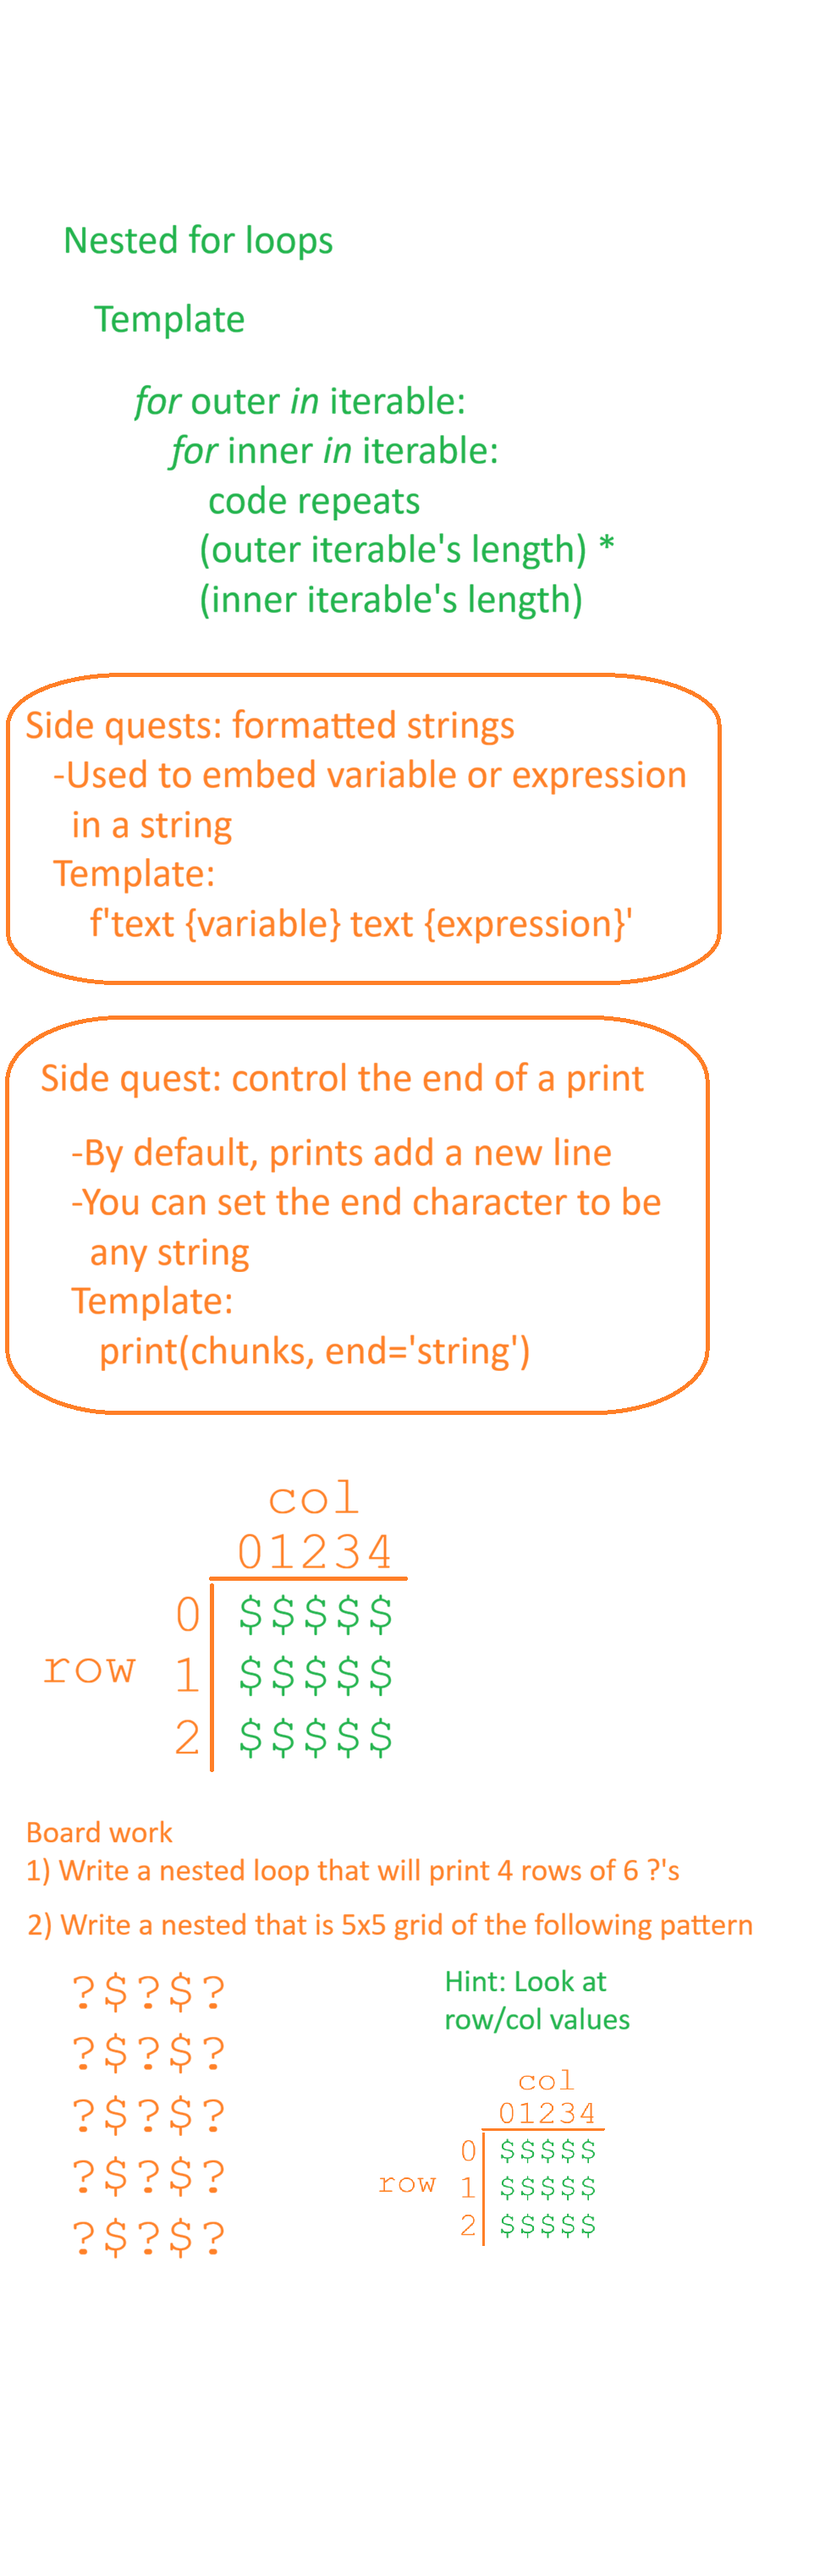
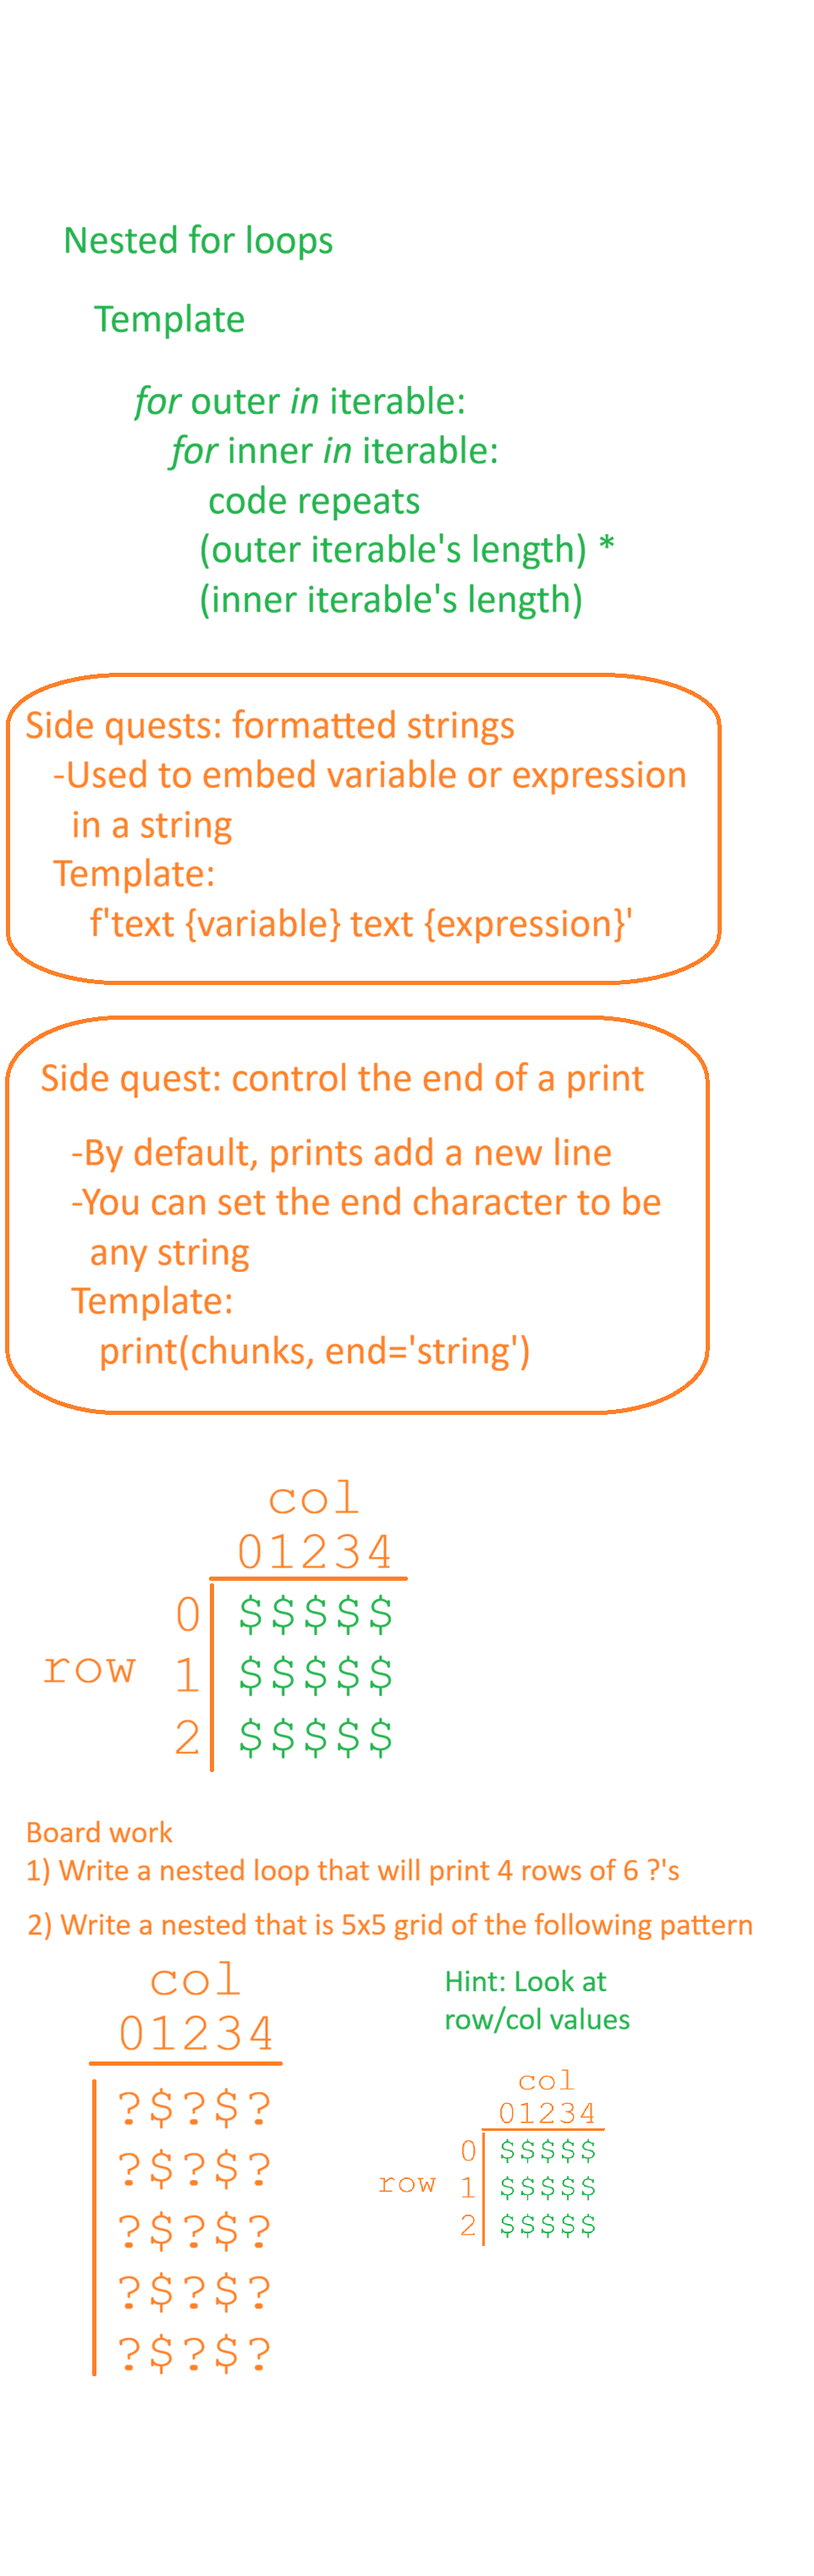
Add 168 notes

Changed region(s): [[0.0936, 0.749, 0.343, 0.9363]]

diff --git a/eecs168/2026fall/MWF/2026.09.23.nested-loops/nesteddemo.py b/eecs168/2026fall/MWF/2026.09.23.nested-loops/nesteddemo.py
@@ -1,5 +1,5 @@
 print('outer\tinner')
-print(
+
 for outer in range(1, 4):
     for inner in range(10, 14):
         print(f'{outer}\t{inner}')
